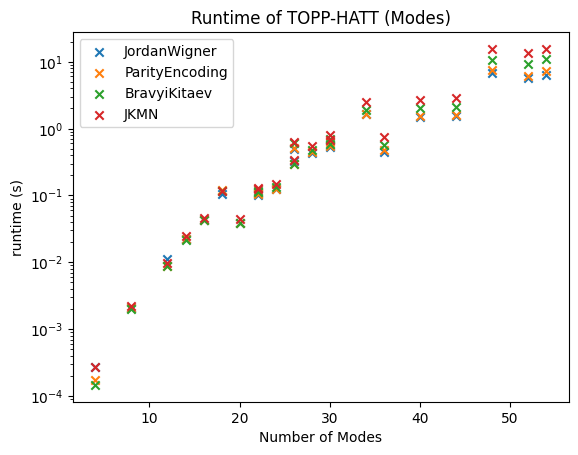
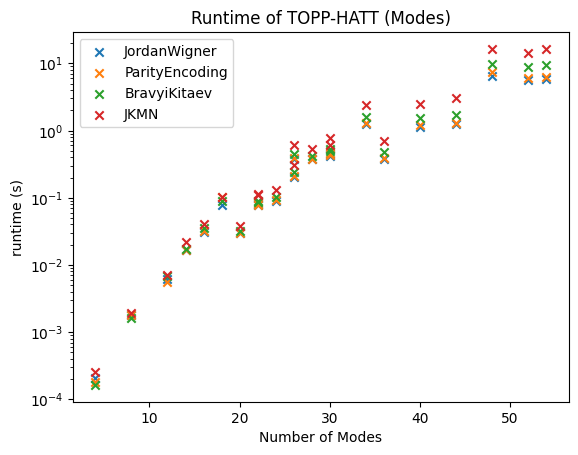
runtime image

diff --git a/docs/source/conf.py b/docs/source/conf.py
@@ -18,7 +18,7 @@
 project = 'ferrmion'
 copyright = '2025, Michael Williams de la Bastida'
 author = 'Michael Williams de la Bastida'
-version = "0.8.0"
+version = "0.7.3"
 
 # -- General configuration ---------------------------------------------------
 # https://www.sphinx-doc.org/en/master/usage/configuration.html#general-configuration

diff --git a/CHANGELOG.md b/CHANGELOG.md
@@ -6,7 +6,7 @@ The format is based on [Keep a Changelog](https://keepachangelog.com/en/1.1.0/),
 and this project adheres to [Semantic Versioning](https://semver.org/spec/v2.0.0.html).
 
 ## [Unreleased]
-## [0.8.0]
+## [0.7.3]
 ### Added
 - Water 6-31G benchmark data for performance testing.
 - CodSpeed continuous performance tracking in CI.
